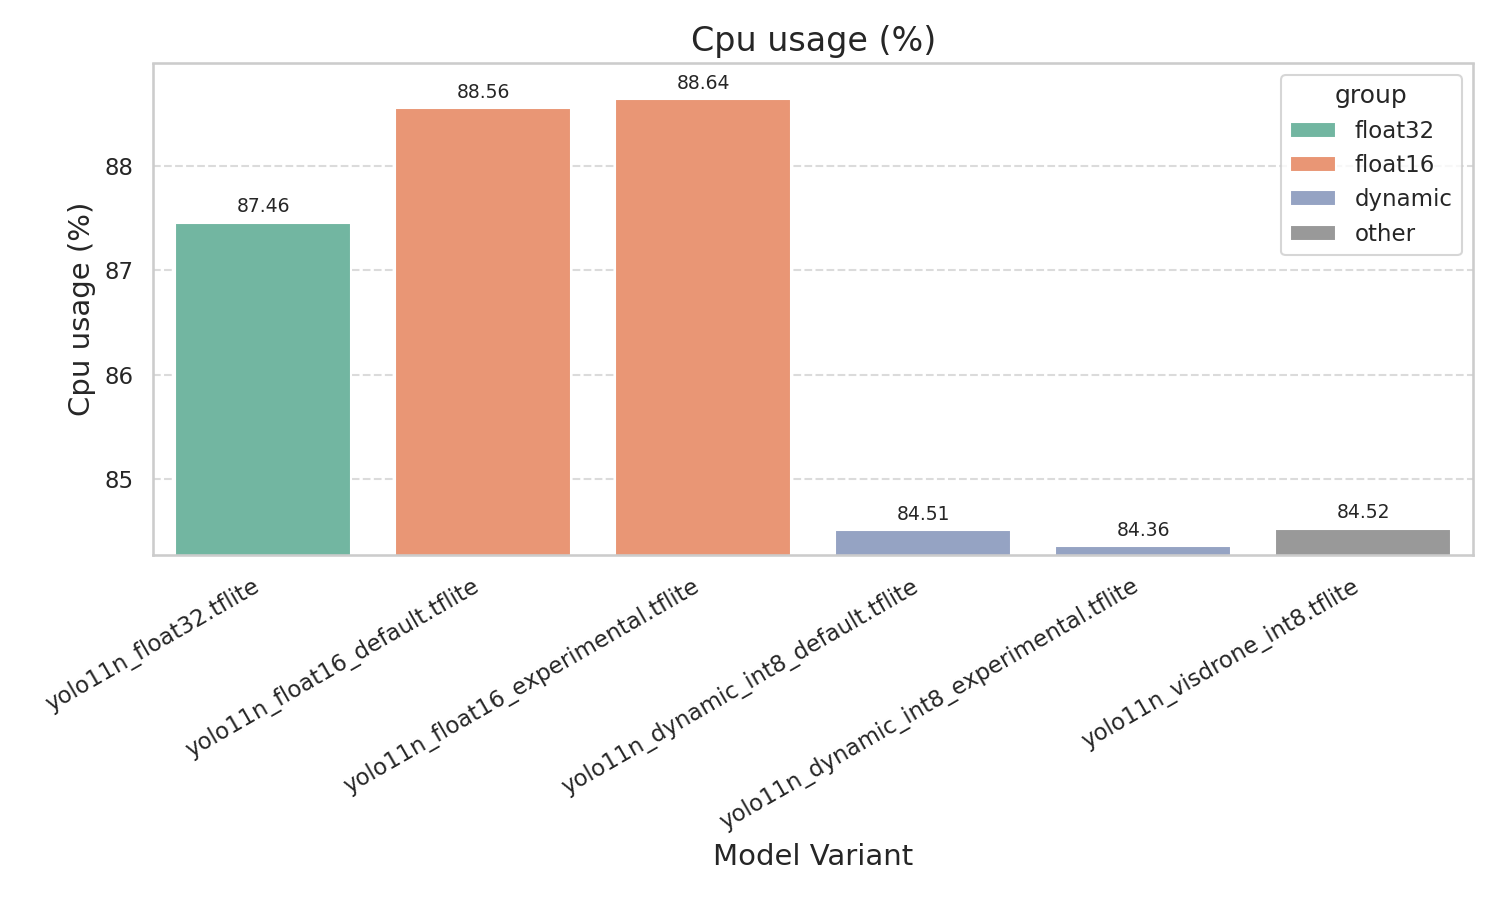
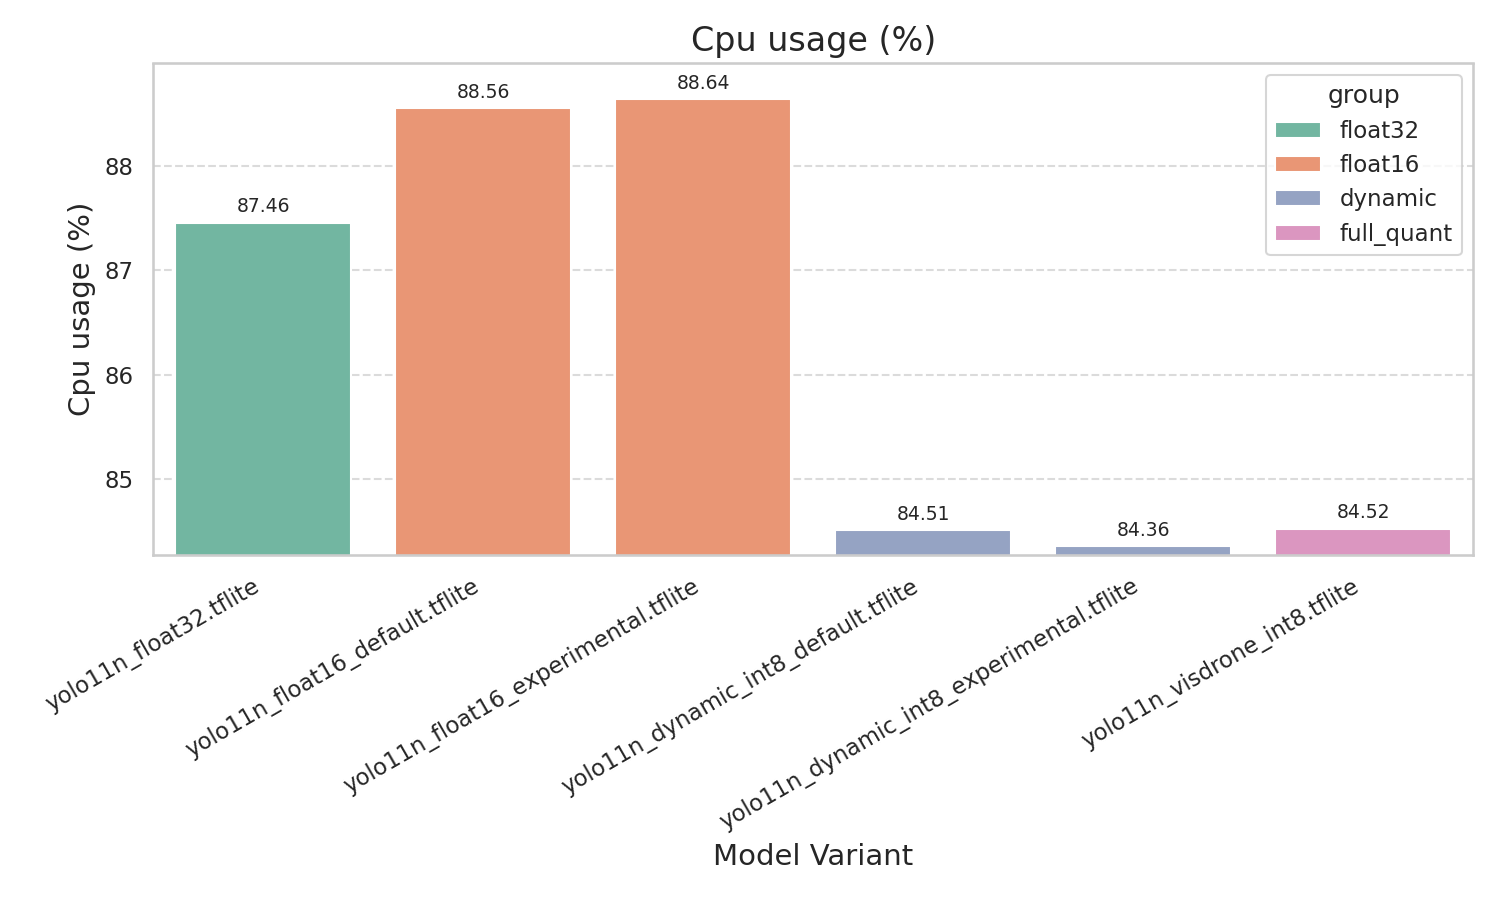
include full quantization into groups

Changed region(s): [[0.828, 0.0933, 0.9813, 0.28], [0.828, 0.5911, 0.9813, 0.6222]]

diff --git a/src/visualization/plot_benchmarks.py b/src/visualization/plot_benchmarks.py
@@ -33,7 +33,7 @@ if __name__ == '__main__':
             return 'float16'
         if 'dynamic' in name:
             return 'dynamic'
-        return 'other'
+        return 'full_quant'
 
     def get_variant(name: str) -> str:
         name = name.lower()
@@ -47,19 +47,19 @@ if __name__ == '__main__':
     df['variant'] = df['model_file'].apply(get_variant)
 
     #  float32 -> float16 -> dynamic -> other
-    group_order = ['float32', 'float16', 'dynamic', 'other']
+    group_order = ['float32', 'float16', 'dynamic', 'full_quant']
     variant_order = ['base', 'latency', 'size']
     df['_g'] = pd.Categorical(df['group'], categories=group_order, ordered=True)
     df['_v'] = pd.Categorical(df['variant'], categories=variant_order, ordered=True)
     df_sorted = df.sort_values(by=['_g', '_v', 'model_file']).reset_index(drop=True)
 
     # Color palette per group
-    base_palette = sns.color_palette('Set2', 3) 
+    base_palette = sns.color_palette('Set2', 4) 
     palette_map = {
         'float32': base_palette[0],
         'float16': base_palette[1],
         'dynamic': base_palette[2],
-        'other': (0.6, 0.6, 0.6),  #  fallback
+        'full_quant': base_palette[3]
     }
 
     output_dir = 'output/plots'
